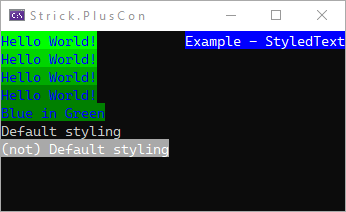
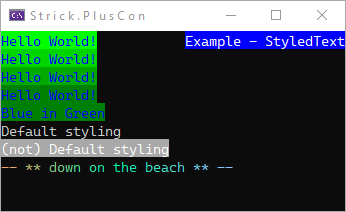
Example updates

diff --git a/Strick.PlusCon.Test/Models/Examples/TextStyleExamples.cs b/Strick.PlusCon.Test/Models/Examples/TextStyleExamples.cs
@@ -78,6 +78,9 @@ internal static class TextStyleExamples
 		st.Style.BackColor = Color.DarkGray;
 		st.Style.ForeColor = Color.White;
 		st.Text = "(not) " + st.Text;
-		W(st.TextStyled);
+		WL(st.TextStyled);
+
+		st = new StyledText("-- ** down on the beach ** --", Color.SandyBrown, Color.FromArgb(3, 240, 165), Color.FromArgb(145, 193, 255));
+		WL(st.TextStyled);
 	}
 }

diff --git a/docs/textStyle.md b/docs/textStyle.md
@@ -41,7 +41,8 @@ W(ts.StyleText("-- ** down on the beach ** --"));
 ### `StyledText` class 
 Combines text content with a `TextStyle` object. 
 For flexibility, both the `Text` and `Style` properties are read/write, 
-and a `StyleText` method allows the styling to be applied to any text.
+and a `StyleText` method allows the styling to be applied to any text. 
+A number of constructor overloads allow for flexible instantiation.
 
 ```c#
 StyledText st = new("Hello World!", Color.Blue);
@@ -64,7 +65,10 @@ WL(st.TextStyled);
 st.Style.BackColor = Color.DarkGray;
 st.Style.ForeColor = Color.White;
 st.Text = "(not) " + st.Text;
-W(st.TextStyled);
+WL(st.TextStyled);
+
+st = new StyledText("-- ** down on the beach ** --", Color.SandyBrown, Color.FromArgb(3, 240, 165), Color.FromArgb(145, 193, 255));
+WL(st.TextStyled);
 ```
 
 ![Example - TextStyle 1](https://raw.githubusercontent.com/StrickTechnologies/Strick.PlusCon/master/SampleImages/ex_styledText_1.png)
